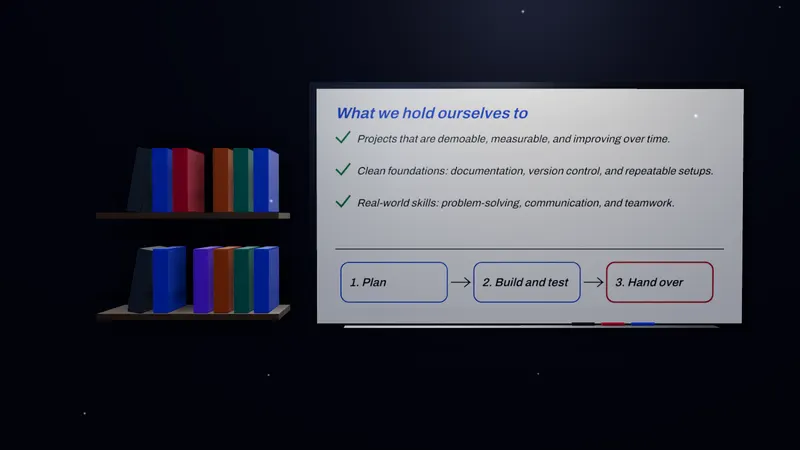
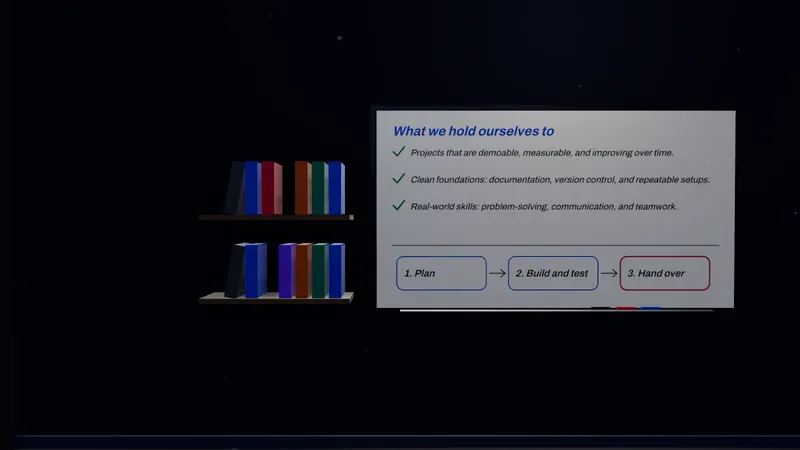
Studio composition holds on narrower windows and short screens
The camera keeps the 16:10 horizontal field on narrower windows (the vertical field widens to a limit),
the whiteboard scene sits right of centre clear of its card, cards are at most 40% of the width, and
windows under 560 px tall use read mode.

Claude-Session: https://claude.ai/code/session_01QigqTPT8Rnm7Wsvje6Qvxk

diff --git a/src/lib/studio/engine.ts b/src/lib/studio/engine.ts
@@ -23,6 +23,11 @@ const HOLD = 0.22; // share of each scene's scroll, either side of it, where the
 const LAMP_TIME = 1.6; // seconds for the desk lamp to come on
 const OPEN_TIME = 3.6; // seconds of the opening shot: the camera starts back from the desk and slowly pushes in
 const OPEN_BACK = 0.9; // metres it starts back
+// Every scene is framed for a 16:10 window at 42° (a horizontal field of about 63.6°). On a narrower window the vertical
+// field widens (up to a limit) so the horizontal field stays the same: the composition holds instead of being cropped.
+const FOV = 42;
+const REF_ASPECT = 1.6;
+const MAX_FOV = 68;
 
 const clamp = (x: number, lo: number, hi: number) => Math.min(hi, Math.max(lo, x));
 const smootherstep = (x: number) => x * x * x * (x * (6 * x - 15) + 10);
@@ -116,7 +121,17 @@ export function drive(ctx: StageContext, { shots, content, position, onFrame }: 
 		}
 	};
 
+	const fit = () => {
+		const aspect = camera.aspect || REF_ASPECT;
+		const fov = aspect >= REF_ASPECT ? FOV : Math.min(MAX_FOV, (2 * Math.atan((Math.tan((FOV * Math.PI) / 360) * REF_ASPECT) / aspect) * 180) / Math.PI);
+		if (Math.abs(camera.fov - fov) > 0.01) {
+			camera.fov = fov;
+			camera.updateProjectionMatrix();
+		}
+	};
+
 	const step = (dt: number) => {
+		fit();
 		clock += dt;
 		const lean = 1 - Math.exp(-4 * dt);
 		px += (pxT - px) * lean;

diff --git a/src/lib/studio/scenes.ts b/src/lib/studio/scenes.ts
@@ -35,8 +35,8 @@ export const SHOTS: Record<string, SceneShot> = {
 	 * turned a little left so the panels sit to the right of the text.
 	 */
 	wall: { id: "wall", camera: [3.6, 1.45, 1.0], target: [8.6, 1.45, -0.2] },
-	/** 5 Standards: the whiteboard and the shelf of binders, on the back wall. */
-	standards: { id: "standards", camera: [5.7, 1.5, 3.2], target: [5.7, 1.45, 6.4] },
+	/** 5 Standards: the whiteboard and the shelf of binders, on the back wall (the board sits right of centre, clear of the card on the left). */
+	standards: { id: "standards", camera: [6.0, 1.5, 2.6], target: [6.0, 1.45, 6.4] },
 	/** 6 Timeline: the long window, a year on each pane. */
 	timeline: { id: "timeline", camera: [-0.3, 1.5, 0.9], target: [-0.3, 1.6, 6.4] },
 	/** 7 The crew: the chairs at the table, a portrait screen behind each. */

diff --git a/SHOWCASE.md b/SHOWCASE.md
@@ -123,7 +123,7 @@ and touch; keyboard users get a normal end). Anchors: `/#services` (Robotics), `
   middle of each scene. It turns by heading and tilt (never by sliding a look-at point), so a 180° turn is clean.
 - **Lights:** the room carries 8 (two hemisphere, the camera's key, fill and rim, the desk lamp, and two point lights that slide between scenes: the glow of what the camera is on, and a ceiling light above it; `src/lib/studio/lights.ts`). A point light costs every lit pixel, so the room used to be 14. Count them, draw calls and triangles with `window.__stage` in the console (`?quality=high`).
 - **No hitches:** every shader is built before the first frame and again after the robot and drone CAD load (`ctx.precompile()`), the live screens redraw about 20 times a second, and while the page moves faster than about 1.5 scenes a second the camera's hold at each scene gives way, so a click on the ruler or a link to `/#contact` is one flight, not a stop at every scene on the way.
-- **Read mode** (under 768 px, reduced motion, Settings → Motion → Read mode, no WebGL): the same text as one page, with
+- **Read mode** (under 768 px wide or 560 px tall, reduced motion, Settings → Motion → Read mode, no WebGL): the same text as one page, with
   a picture of each scene: `public/studio/scenes/`, made by `python scripts/studio-stills.py` against a preview
   (`?studio=capture` hides the text; `window.__studio.go(n)` jumps the camera).
 - **Screens:** `python scripts/studio-screens.py` refreshes the build guide and site screenshots on the monitor and laptop.
@@ -136,7 +136,7 @@ and touch; keyboard users get a normal end). Anchors: `/#services` (Robotics), `
 panel faces, shared with the studio). The stage is pinned while the page scrolls past it, so the wall moves with native
 scrolling and nothing is hijacked; the panel in front lifts and its project's card shows. Click a panel (or press the
 card) to open the project: the camera pushes into it, then the page changes. Left and Right arrows and the ruler move
-along the wall. Under it is the plain list of the same projects as ordinary links (and read mode's whole page: under 768 px,
+along the wall. Under it is the plain list of the same projects as ordinary links (and read mode's whole page: under 768 px wide or 560 px tall,
 reduced motion, no WebGL, or Settings). A new project is one file in `src/text/projects/` and the wall grows by itself.
 
 # Accessibility and how it is checked
